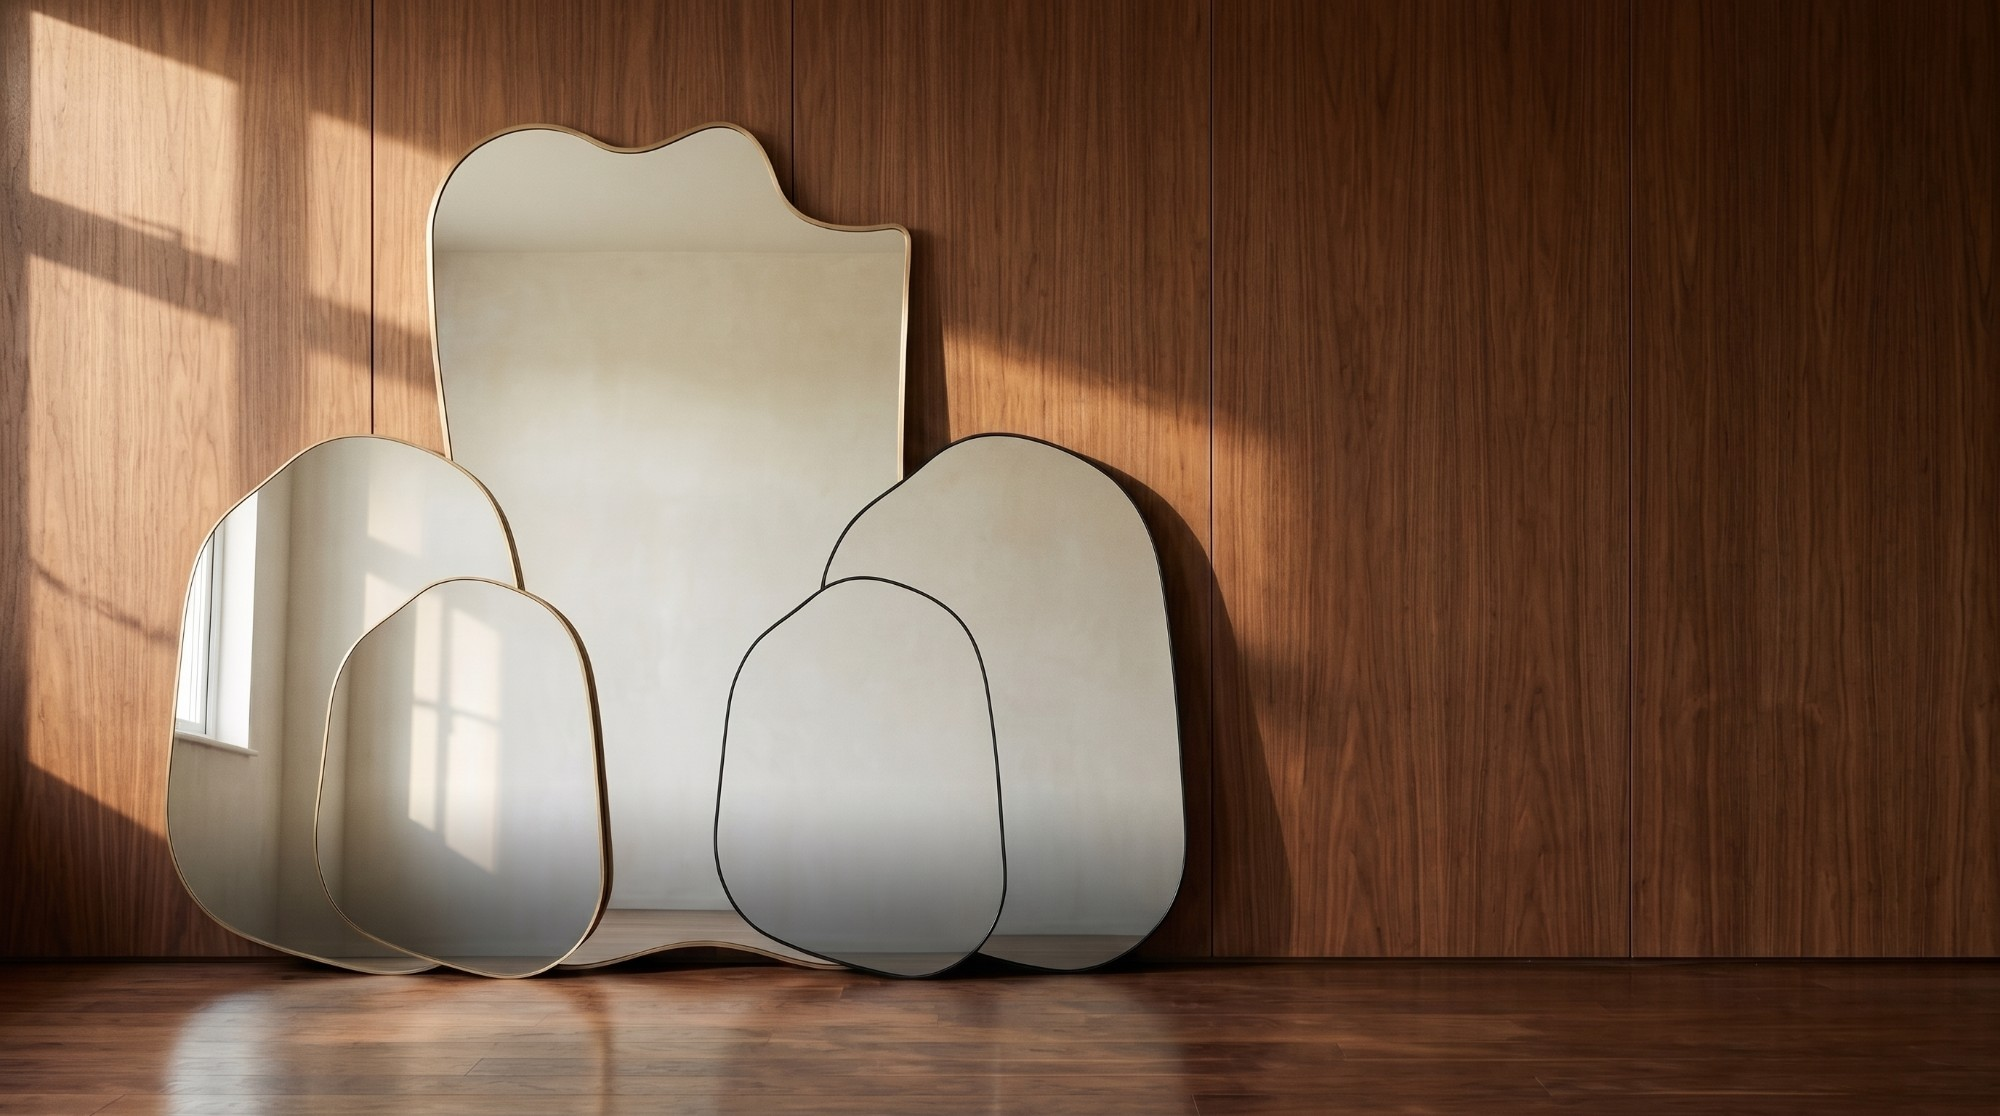
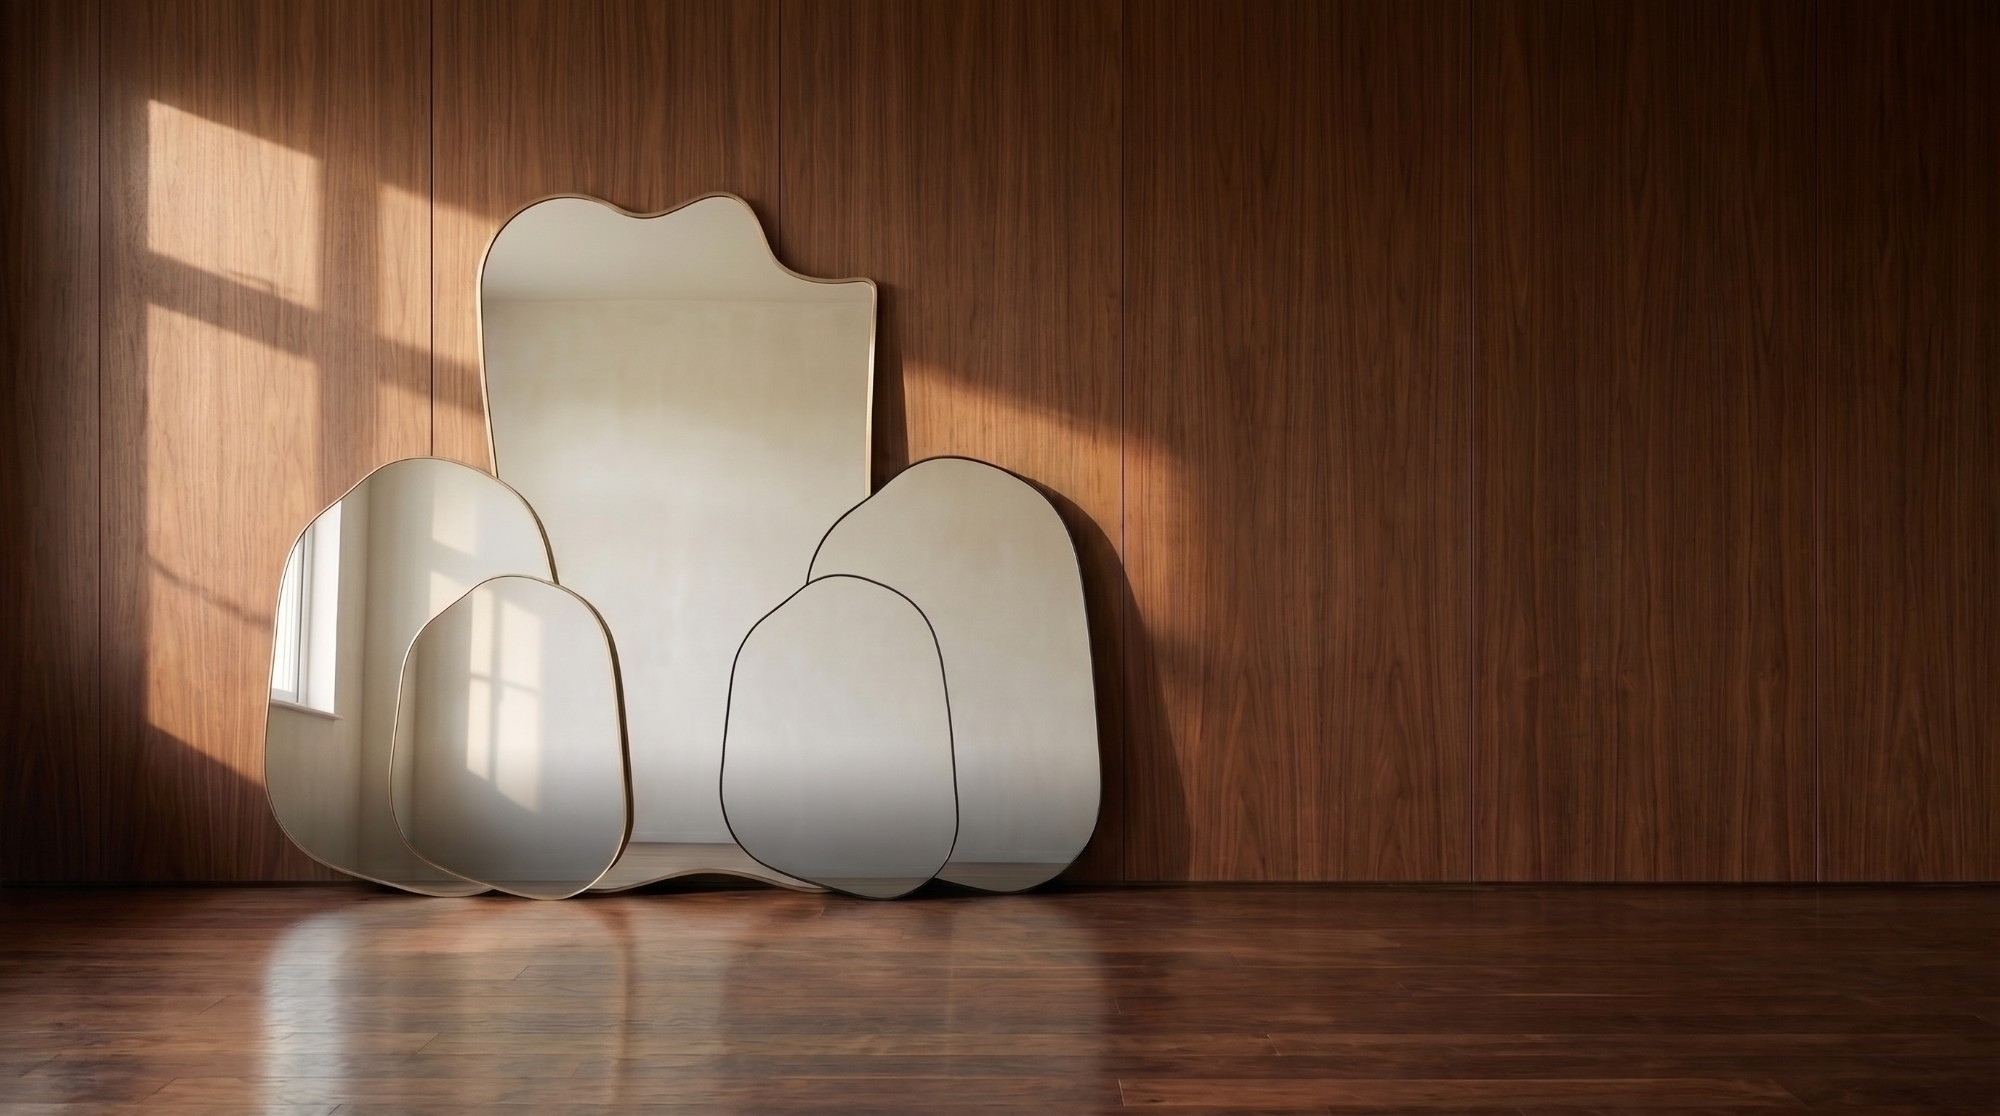
Homepage hero: wider desktop shot and a portrait photo for phones

diff --git a/assets/style.css b/assets/style.css
@@ -513,10 +513,17 @@ p {
 }
 
 /* Mirrors-on-walnut slide: the mirrors sit left and the wall is empty on the right,
-   so the copy moves right and the shade flips to sit behind it. On a phone the crop
-   is centred on the tall gold mirror. */
-.hero-slide--mirrors .hero-img { object-position: 33% center; }
+   so the copy moves right and the shade flips to sit behind it. Phones get their own
+   portrait photograph through <picture>. */
+.hero-slide--mirrors picture { display: block; width: 100%; height: 100%; }
+.hero-slide--mirrors .hero-img { object-position: center; }
 .hero-slide--mirrors .hero-title { font-size: 2.1rem; }
+
+/* The mirrors fill the lower half of the portrait photo, so the copy sits up on the wall. */
+@media (max-width: 900px) {
+    .hero-slide--mirrors { align-items: flex-start; }
+    .hero-slide--mirrors .hero-content { padding-top: 8.5rem; }
+}
 
 @media (min-width: 901px) {
     .hero-slide--mirrors .hero-content { margin-left: auto; }
